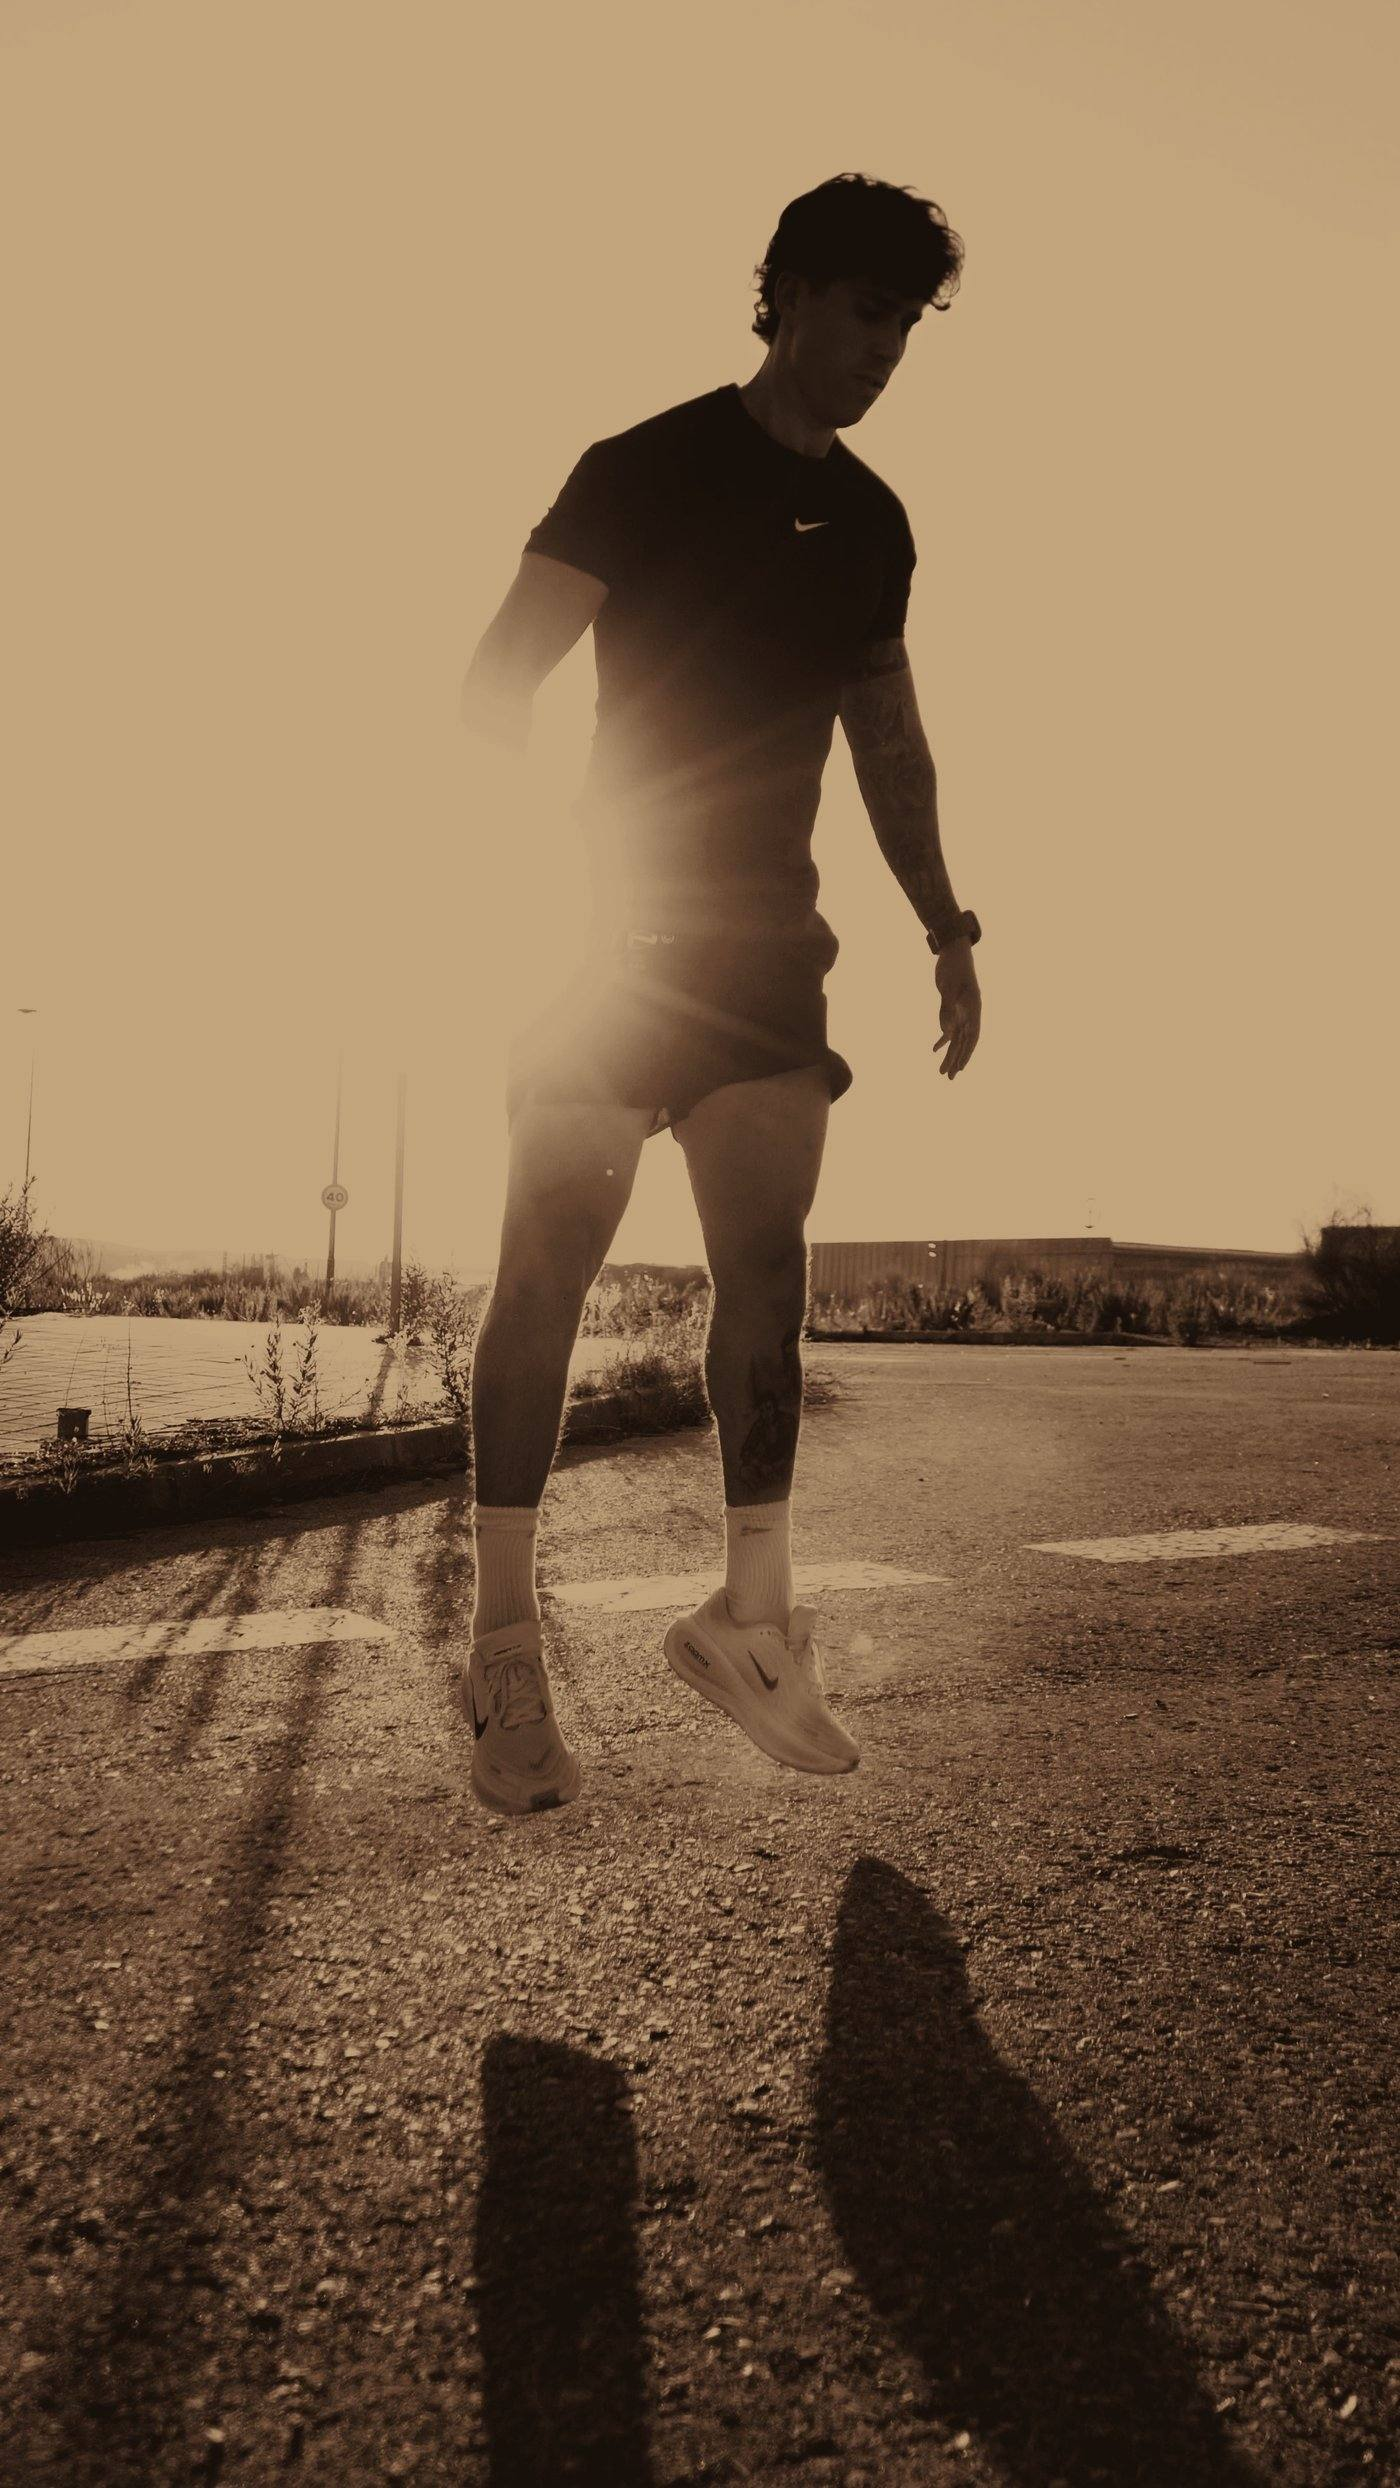
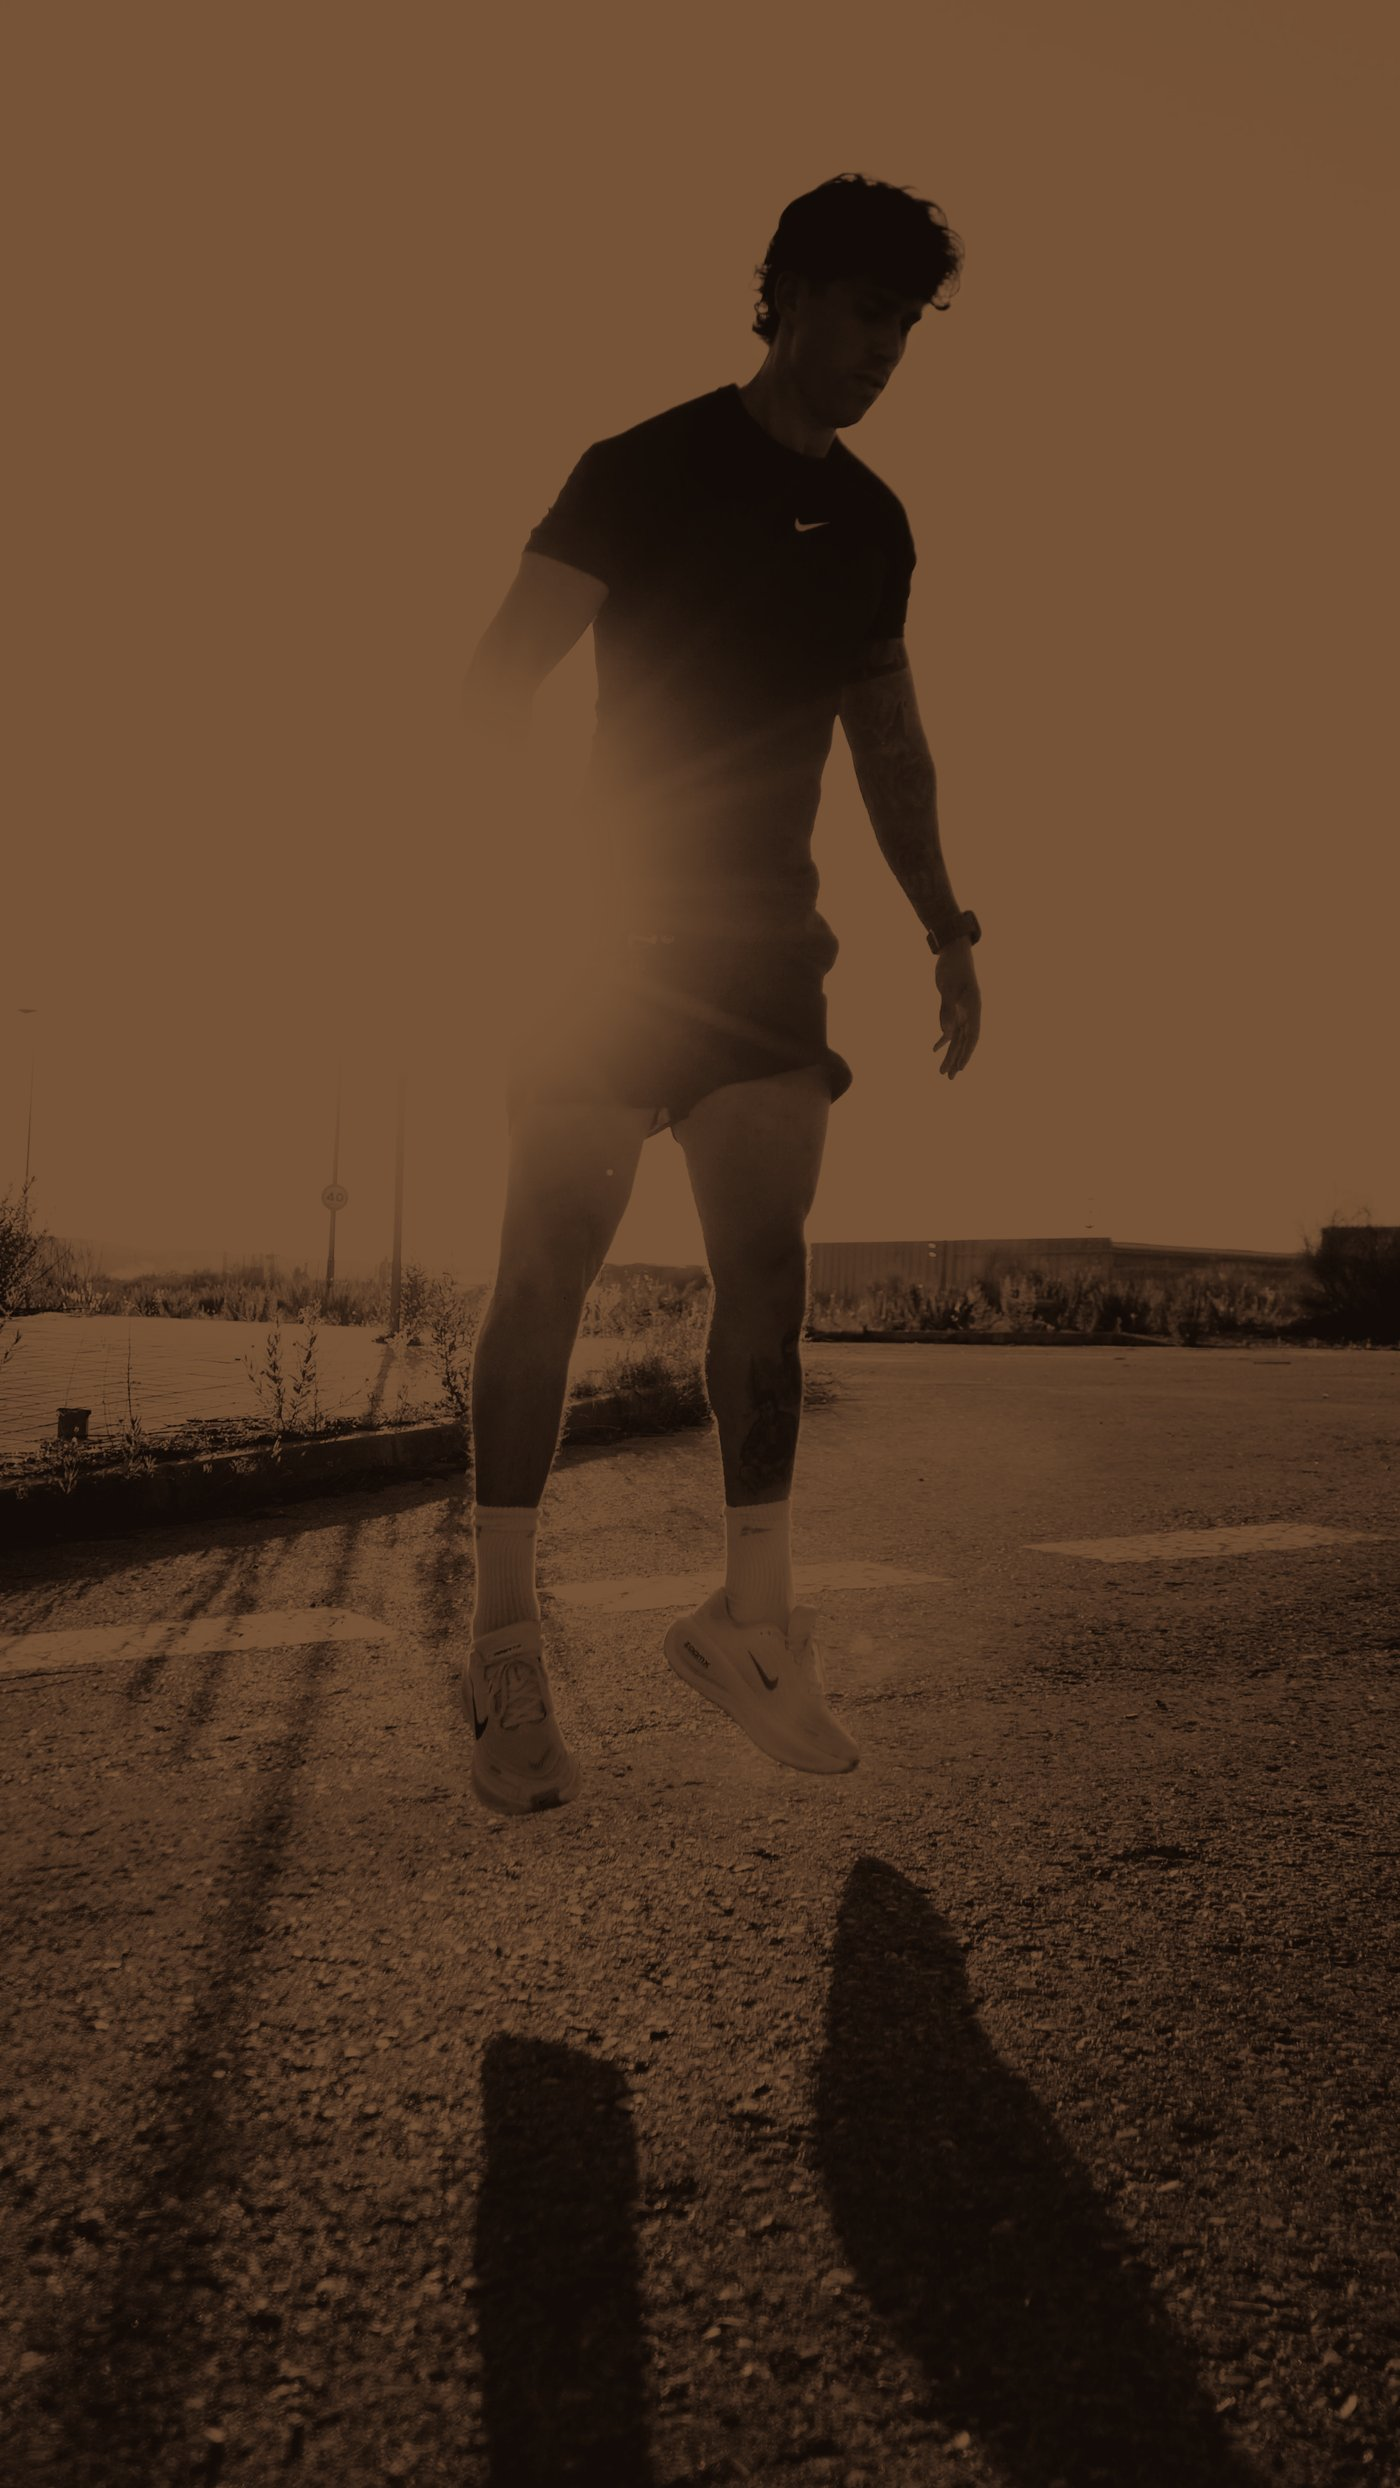
Foto de FUERZA a pantalla completa y duotono más marrón chocolate

diff --git a/src/style.css b/src/style.css
@@ -290,9 +290,9 @@ body {
 
 .chapter--fuerza {
   background-color: #170f0a;
-  background-image: linear-gradient(180deg, rgba(23, 15, 10, 0.35), rgba(23, 15, 10, 0.55)), url('/images/fuerza-bg.jpg');
-  background-size: cover, auto 86%;
-  background-position: center, center 78%;
+  background-image: linear-gradient(180deg, rgba(24, 14, 8, 0.45), rgba(24, 14, 8, 0.65)), url('/images/fuerza-bg.jpg');
+  background-size: cover, 100% 100%;
+  background-position: center, center;
   background-repeat: no-repeat, no-repeat;
 }
 
